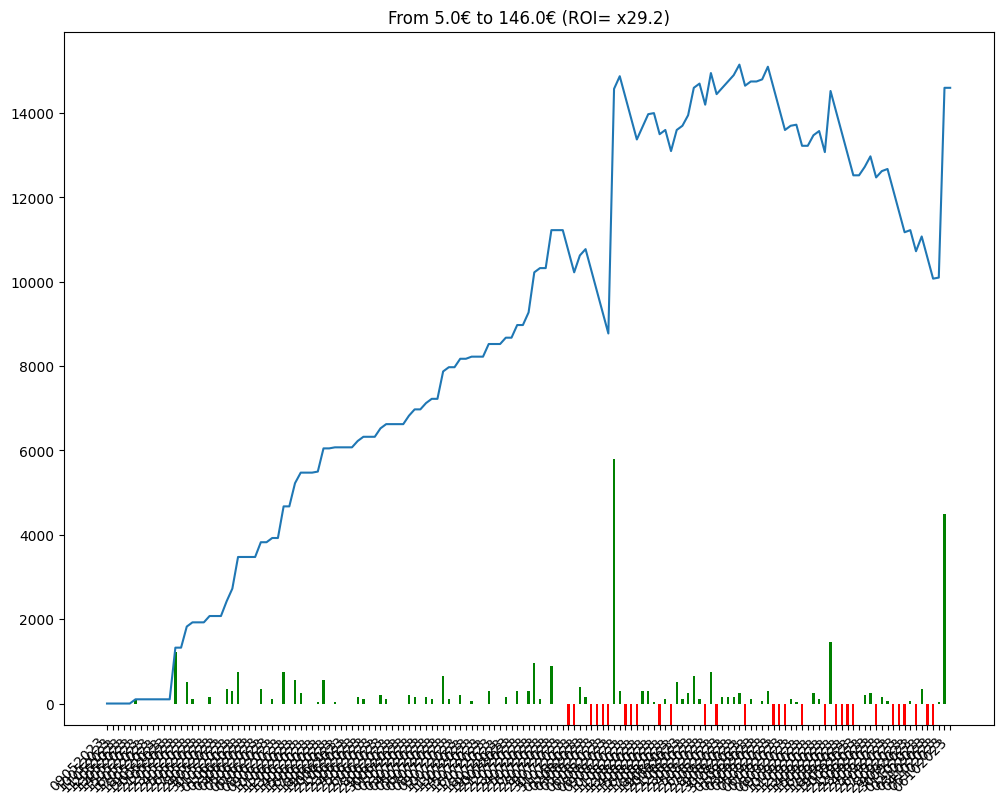
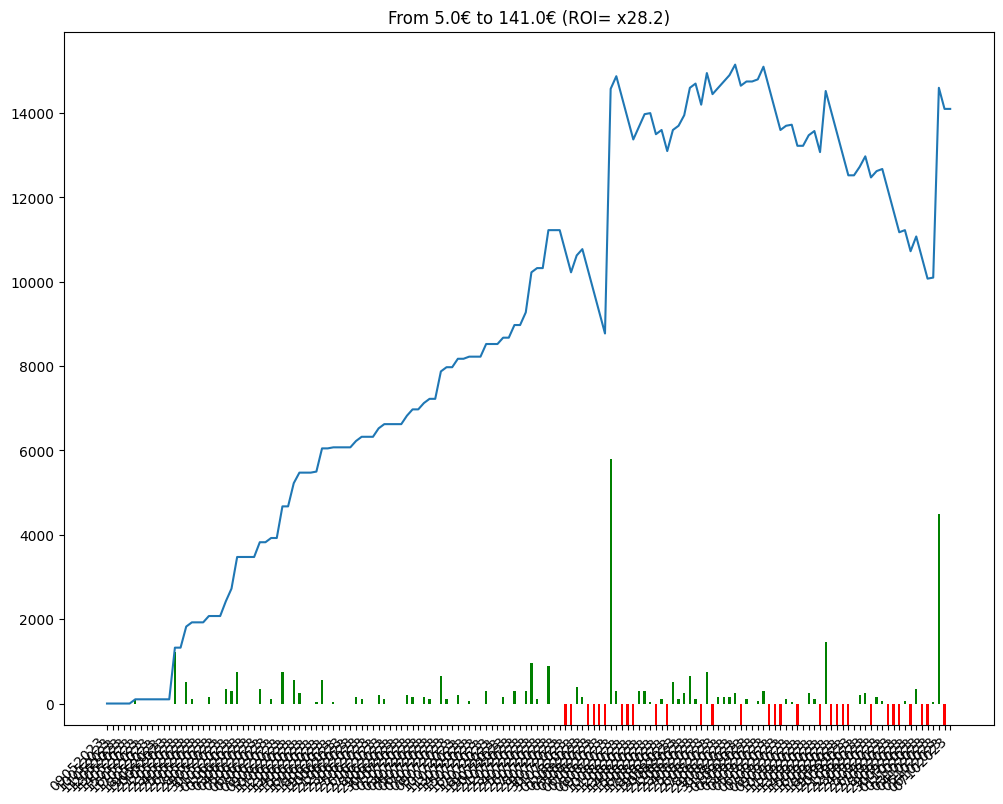
comment from python script

diff --git a/bethistory.html b/bethistory.html
@@ -86,7 +86,8 @@
             En observant la courbe 🤔, on peut avoir une idée visuelle de l'évolution des gains et ainsi évaluer le model utilisé 🧑🏫.
         </p>
         
-        <img src = "/candle.png" alt="candle chart"/><table><tr><td>Chevaux joués</td><td>Gains</td><td>URL Circuits</td></tr><tr><td>2 - DOUBLE CHECK</td><td>0</td><td><a href=https://www.pmu.fr/turf/06102023/r2/c4 target="_blank">https://www.pmu.fr/turf/06102023/r2/c4</a></td></tr>
+        <img src = "/candle.png" alt="candle chart"/><table><tr><td>Chevaux joués</td><td>Gains</td><td>URL Circuits</td></tr><tr><td>3 - INSPIRAL</td><td>0</td><td><a href=https://www.pmu.fr/turf/07102023/r8/c4 target="_blank">https://www.pmu.fr/turf/07102023/r8/c4</a></td></tr>
+<tr><td>2 - DOUBLE CHECK</td><td>-500</td><td><a href=https://www.pmu.fr/turf/06102023/r2/c4 target="_blank">https://www.pmu.fr/turf/06102023/r2/c4</a></td></tr>
 <tr><td>6 - NOBLE COTAI</td><td>+4500</td><td><a href=https://www.pmu.fr/turf/05102023/r1/c2 target="_blank">https://www.pmu.fr/turf/05102023/r1/c2</a></td></tr>
 <tr><td>3 - MUTBAHY ATHBAH</td><td>+25</td><td><a href=https://www.pmu.fr/turf/04102023/r4/c7 target="_blank">https://www.pmu.fr/turf/04102023/r4/c7</a></td></tr>
 <tr><td>3 - HOMME DE VALEUR</td><td>-500</td><td><a href=https://www.pmu.fr/turf/03102023/r3/c3 target="_blank">https://www.pmu.fr/turf/03102023/r3/c3</a></td></tr>
